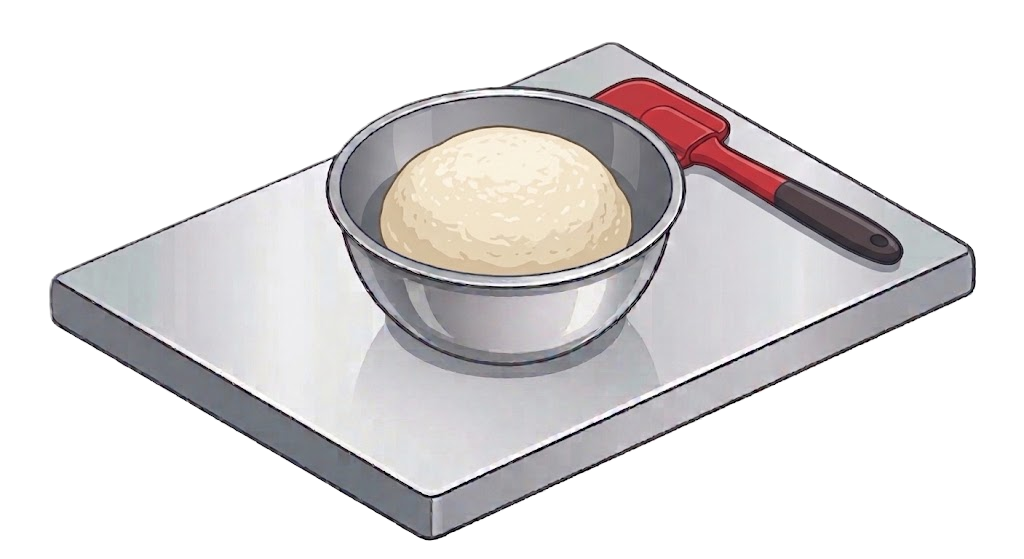
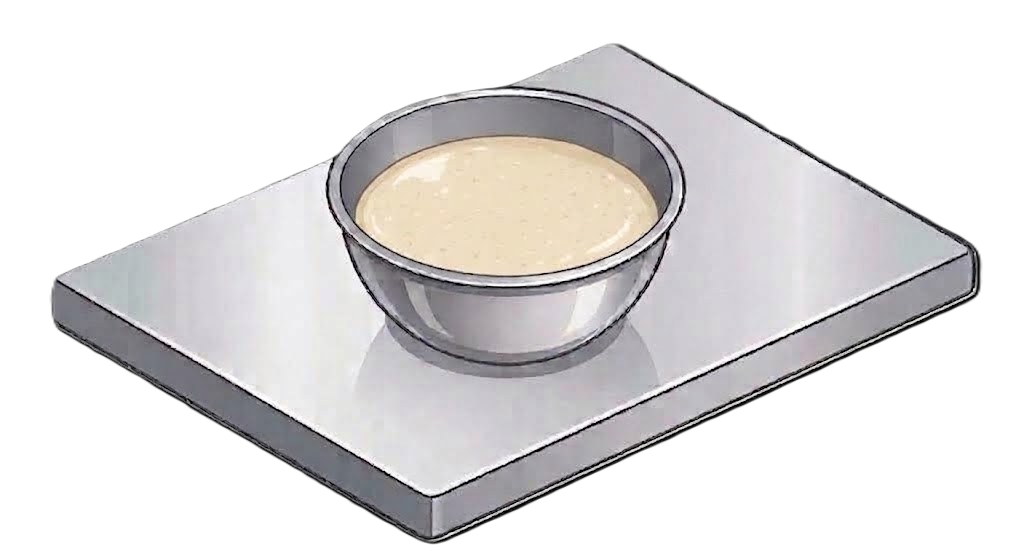
feat(stage-2): display closed lid asset when safety interlock is engaged
- Dynamically update food processor image to `/assets/processor_close_lid.png` upon locking the safety lid
- Update step label to indicate locked lid state before pureeing
- Include new and updated food processor visual assets

diff --git a/src/scenes/Mission2Grinding.jsx b/src/scenes/Mission2Grinding.jsx
@@ -56,7 +56,7 @@ export const Mission2Grinding = () => {
       prompt: isLidLocked
         ? 'Safety interlock locked! Press Pulse/Blend to puree'
         : 'Align & lock safety lid onto bowl to engage interlock',
-      img: '/assets/processor_with_ubod_salt.png',
+      img: isLidLocked ? '/assets/processor_close_lid.png' : '/assets/processor_with_ubod_salt.png',
       fallbackIcon: '🌀',
       label: isLidLocked ? 'Lid Locked & Ready to Puree' : 'Ubod + Salt (Lid Open)',
     },
